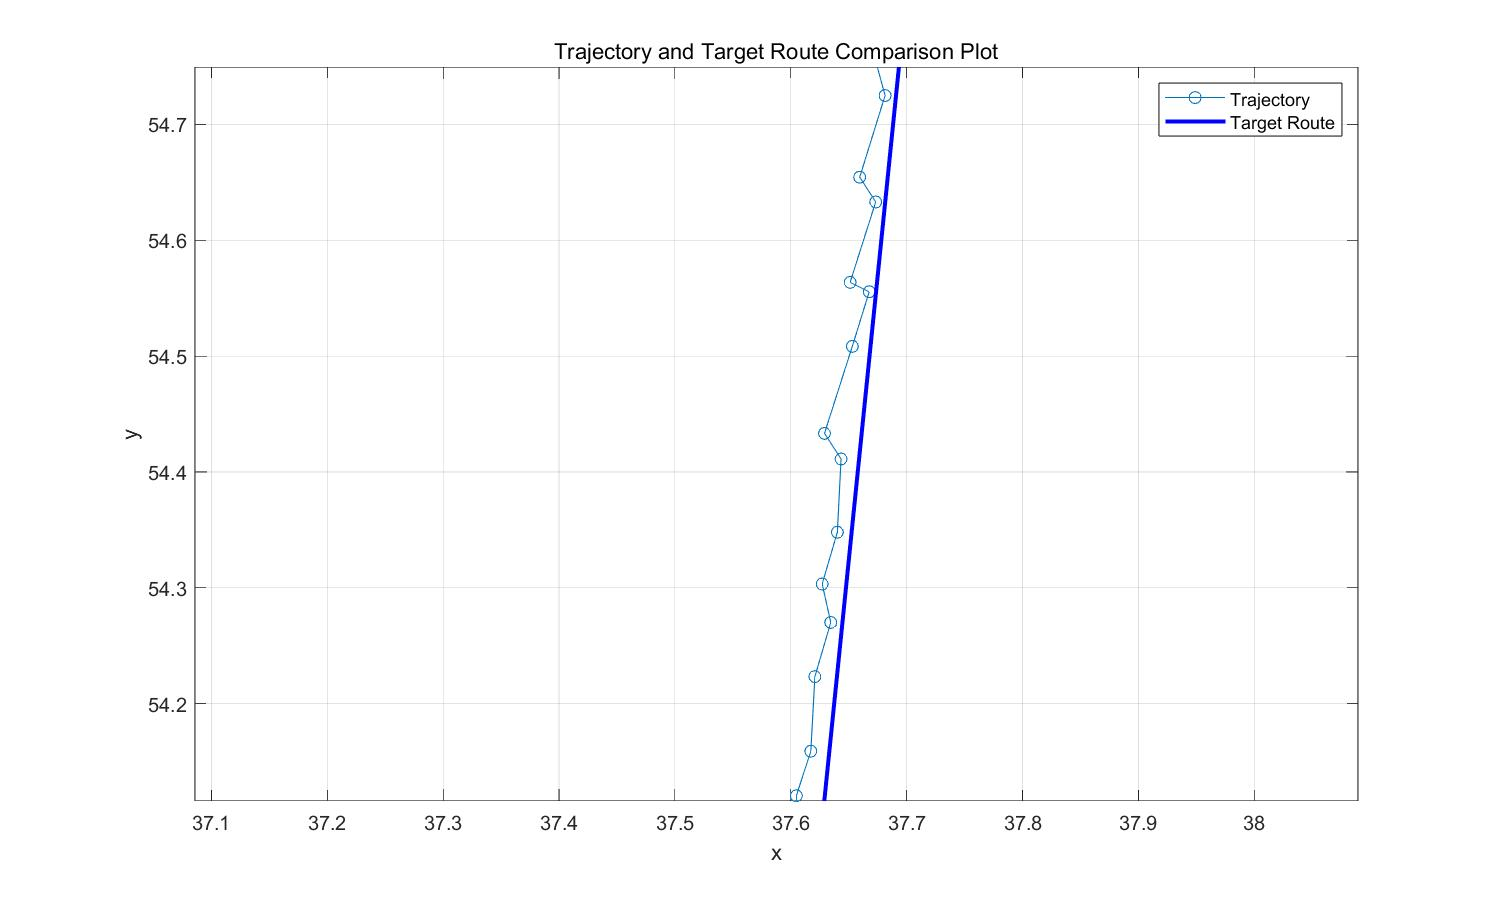
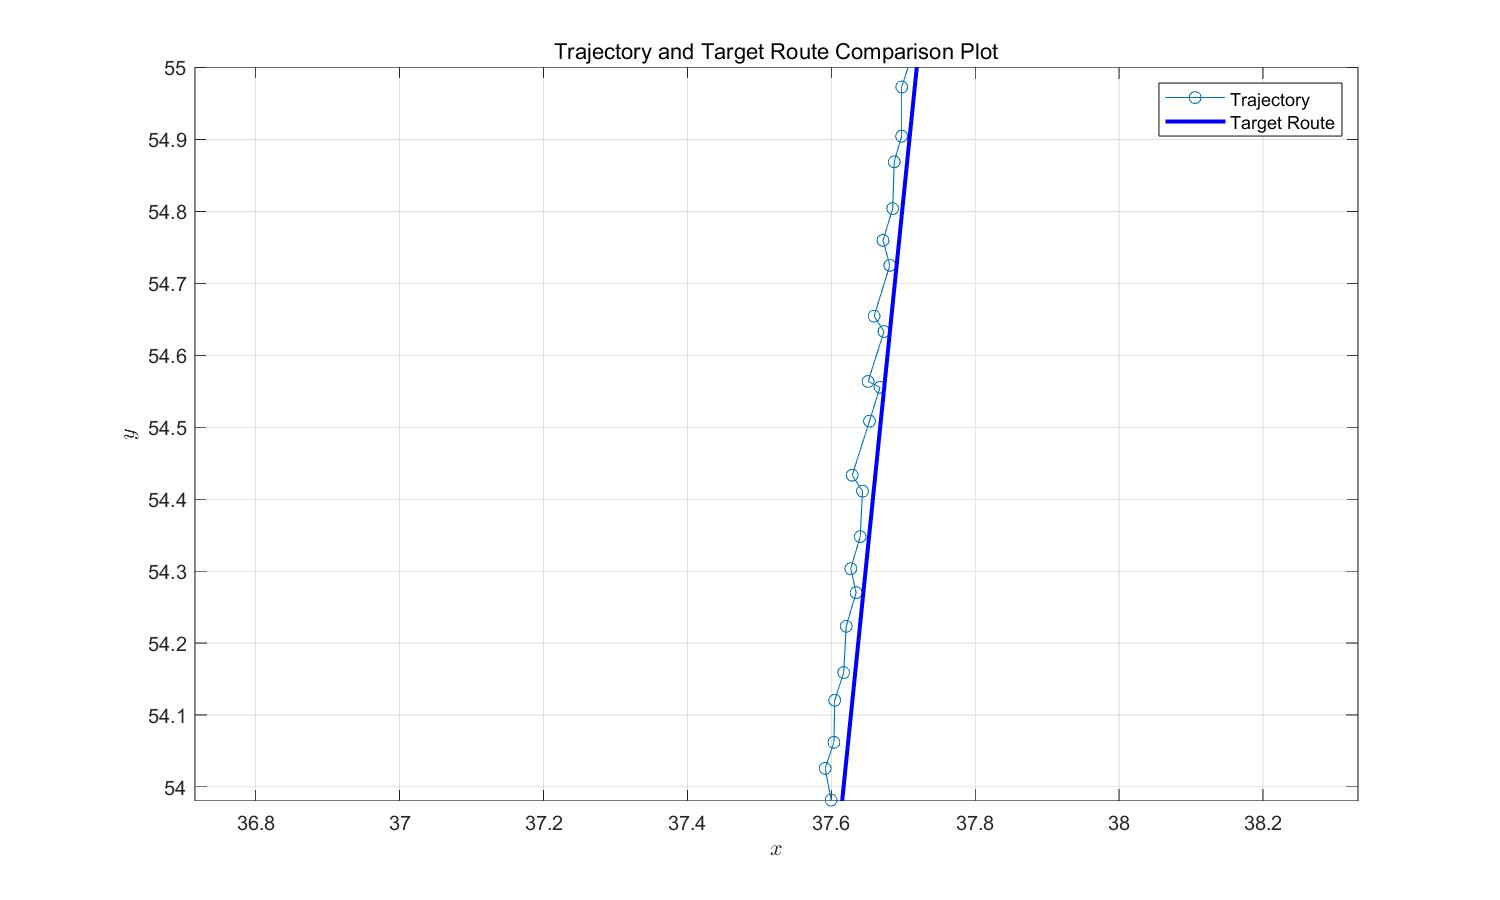
change

diff --git a/README.md b/README.md
@@ -26,7 +26,25 @@ g++ -I /usr/include/eigen3 -I /usr/include -o main main.cpp -lnlopt
 ## 🎉 Results Display
 Below is an image showcasing the results of running the code.
 
-### Simulation Image
+### Vehicle Control Simulation Image
+
+The following are control simulation images for vehicle speeds:
+
+- **1 m/s**:
+
+<img height="469" src="figure/trajectory_plot_speed1.png" width="781.5"/>
+
+- **2 m/s**:
+
+<img height="469" src="figure/trajectory_plot_speed2.png" width="781.5"/>
+
+- **3 m/s**:
+
+<img height="469" src="figure/trajectory_plot_speed3.png" width="781.5"/>
+
+### Vehicle Control and Obstacle Avoidance Simulation Image
+
+The following are control and obstacle avoidance simulation image:
 
 <img height="469" src="figure/trajectory_plot.png" width="781.5"/>
 
